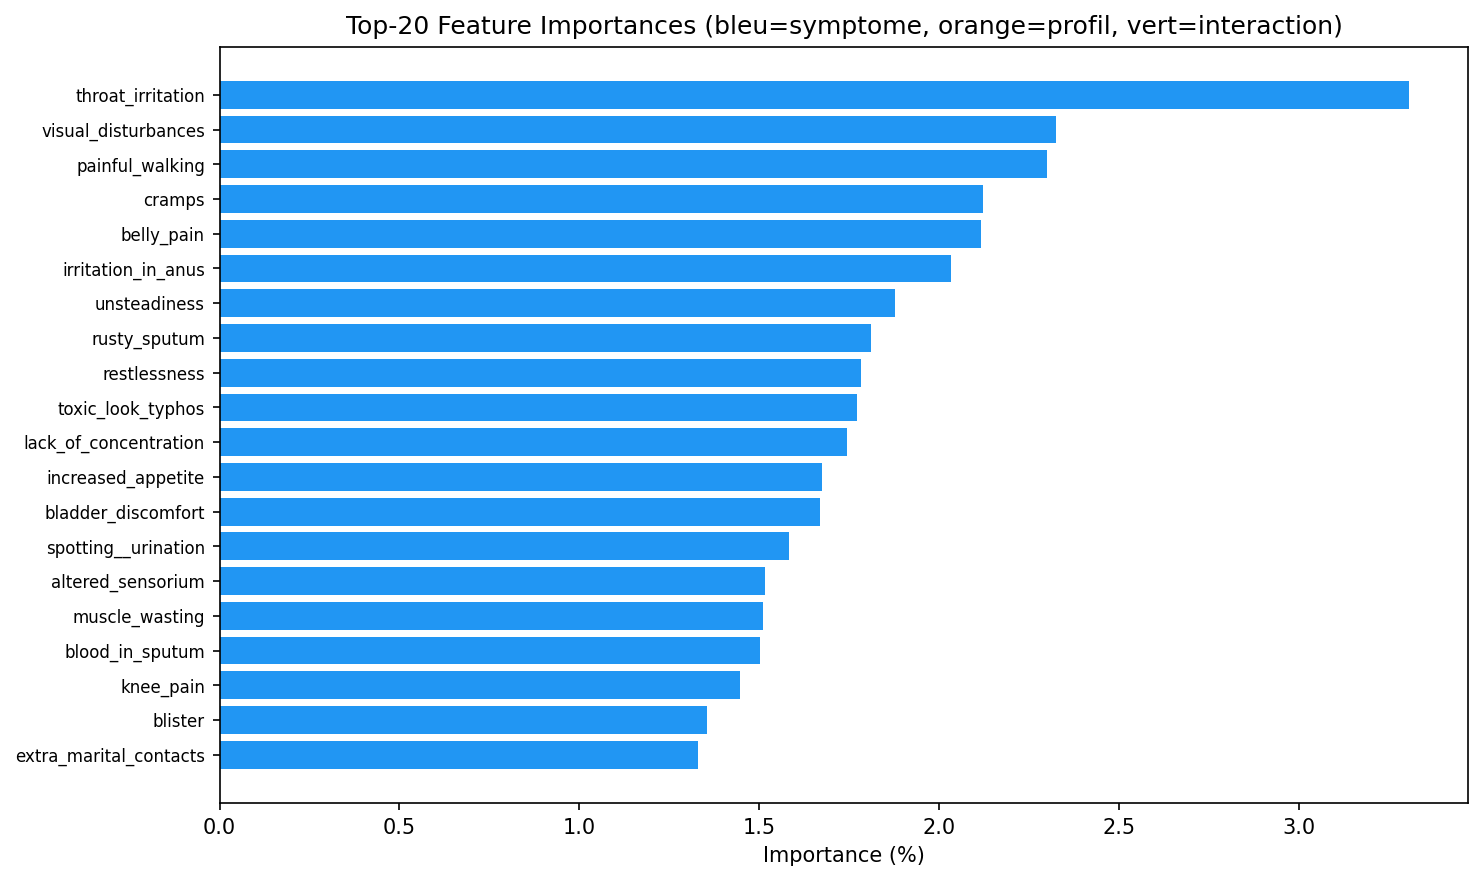
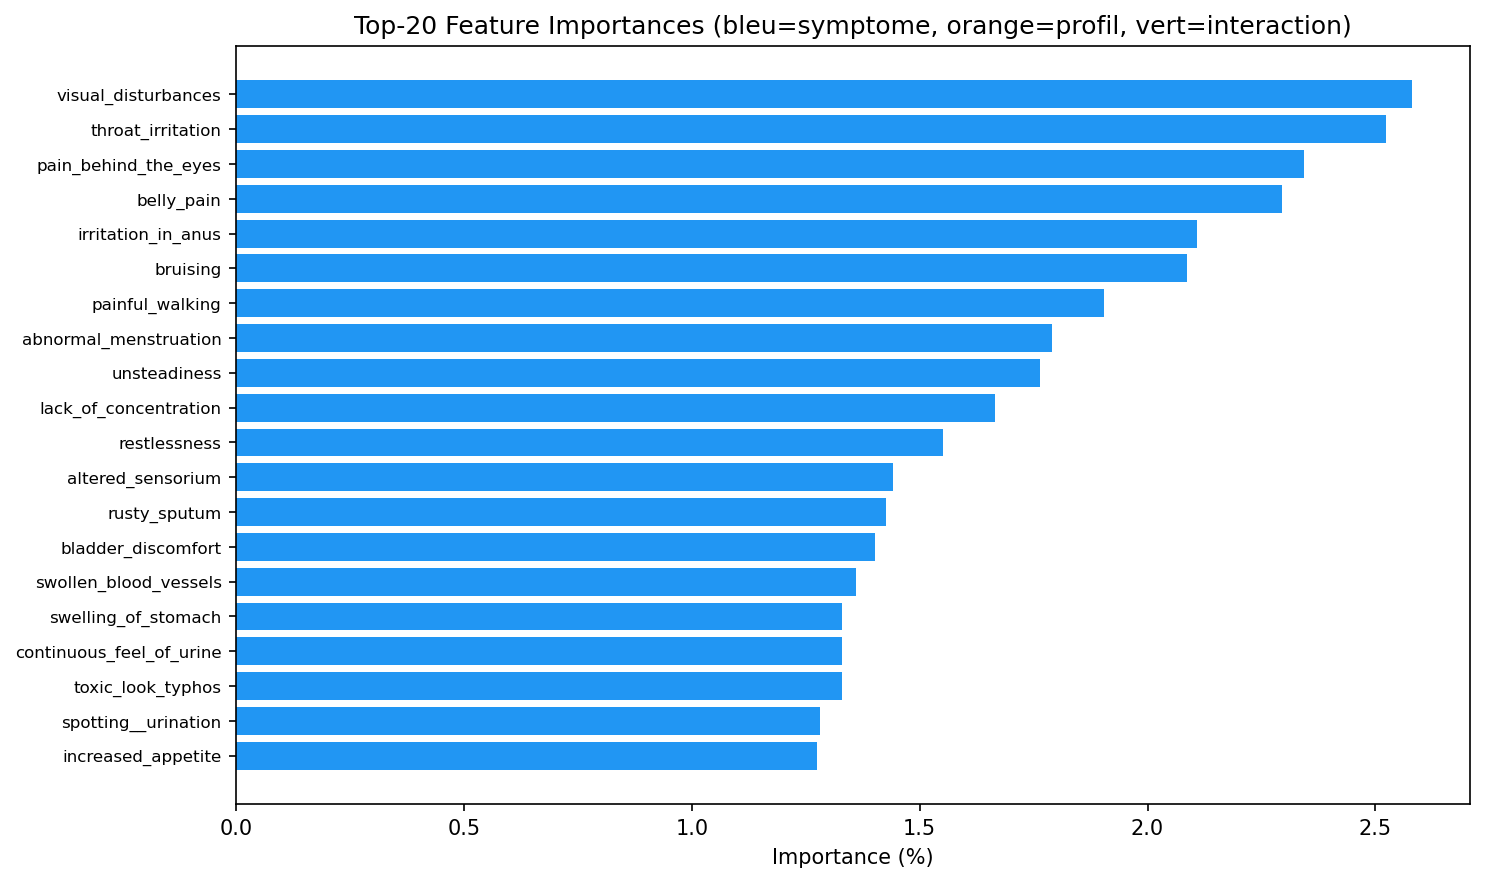
fix: update model trainer to use cv='prefit' in CalibratedClassifierCV and remove FrozenEstimator import

diff --git a/MlPredictionService/training/model_trainer.py b/MlPredictionService/training/model_trainer.py
@@ -19,7 +19,6 @@ import pandas as pd
 import numpy as np
 from sklearn.model_selection import train_test_split
 from sklearn.calibration import CalibratedClassifierCV
-from sklearn.frozen import FrozenEstimator
 from sklearn.multioutput import MultiOutputClassifier
 from xgboost import XGBClassifier
 
@@ -111,9 +110,9 @@ class ModelTrainer:
         # L'estimateur specialiste (index 1) reste brut car le specialiste est
         # une fonction deterministe de la maladie (mapping Doctor_Versus_Disease.csv),
         # calibrer ses probas n'apporte rien et gaspille des donnees de calibration.
-        print("   - Calibration isotonique sur l'estimateur maladie uniquement (FrozenEstimator)...")
+        print("   - Calibration isotonique sur l'estimateur maladie uniquement (cv='prefit')...")
         est_disease = model.estimators_[0]
-        cal = CalibratedClassifierCV(FrozenEstimator(est_disease), method='isotonic')
+        cal = CalibratedClassifierCV(estimator=est_disease, method='isotonic', cv='prefit')
         cal.fit(X_cal, Y_cal[:, 0])
         model.estimators_[0] = cal
         print("   - Estimateur specialiste laisse brut (mapping deterministe).")
